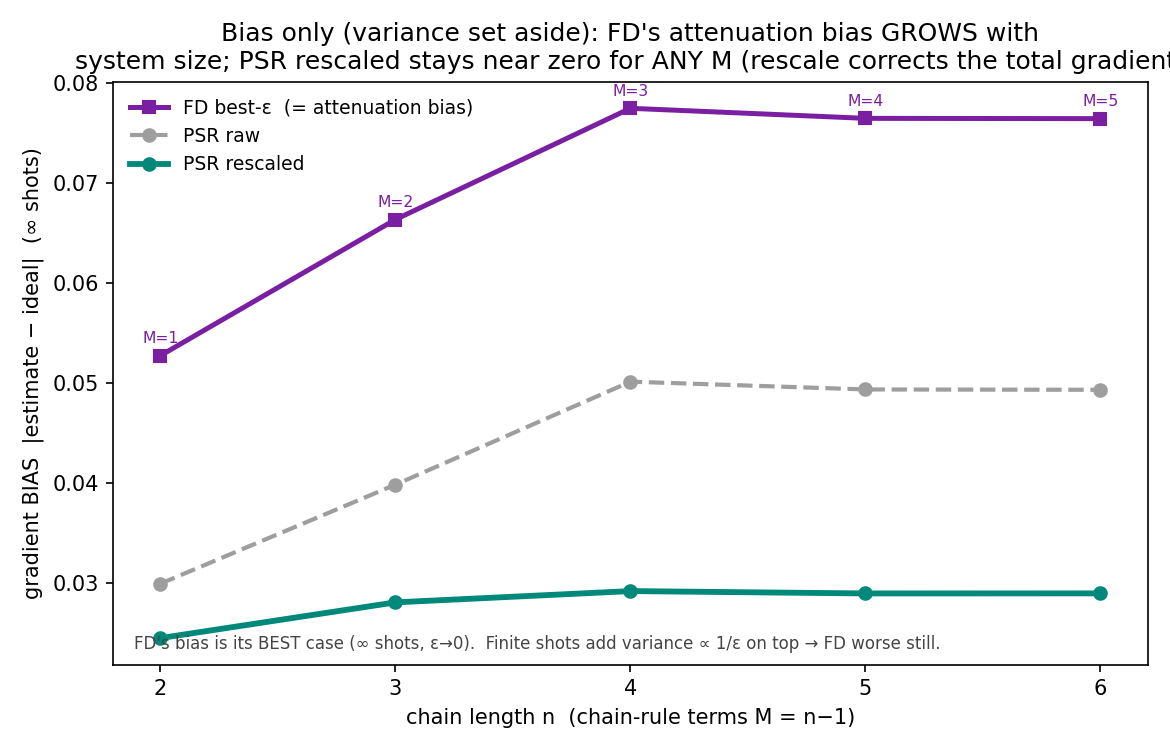
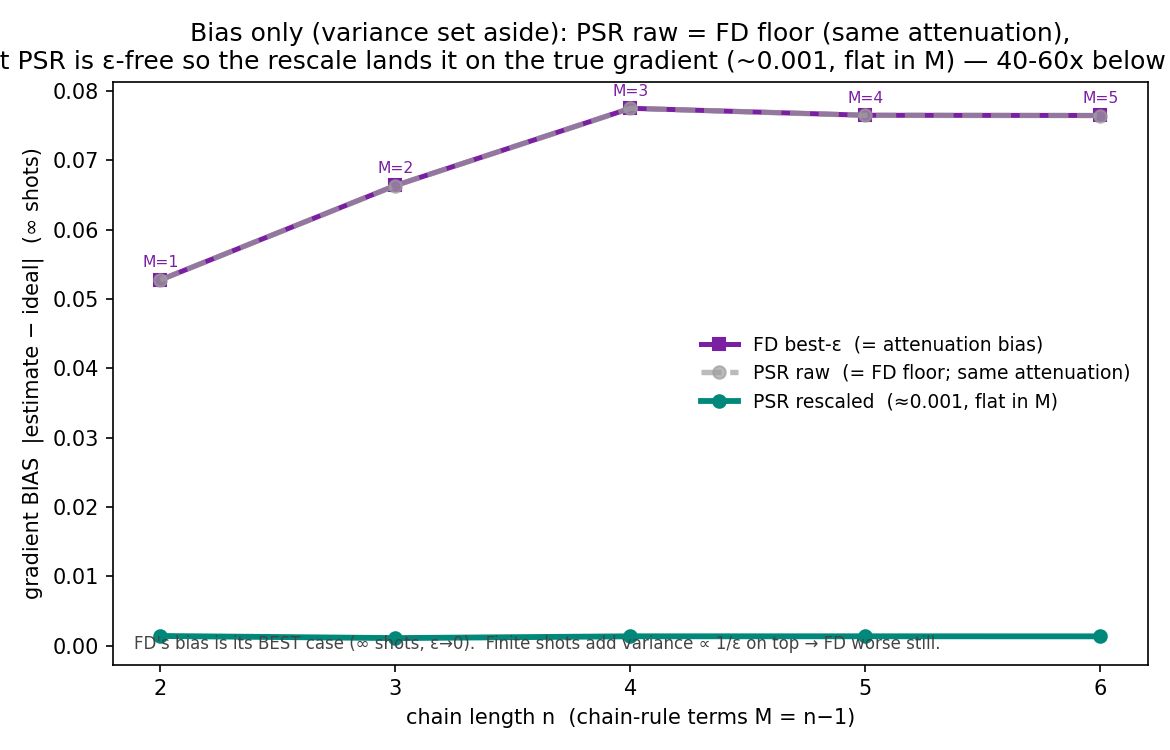
Re-run bias_vs_size with deterministic tau-quadrature
Confirms the random-tau MC artifact flagged in the FD-bias studies.
Switching the PSR tau-integral from random MC (O(1/sqrt n)) to a
deterministic midpoint quadrature (O(1/n^2)) -- appropriate for a BIAS
study where tau-sampling variance is set aside -- gives:

  lambda_PSR = lambda_FD EXACTLY at every size (0.881, 0.910, 0.895, ...)
  PSR raw bias = FD floor exactly (the earlier "PSR raw below FD" was
                 pure tau-MC noise)
  PSR rescaled bias 0.0011-0.0014, flat in M (was 0.025-0.029; that too
                 was tau-MC-inflated) -- now ~40-60x below FD's floor

The PSR-rescaled-wins headline is unchanged and stronger. Corrected
narrative: PSR's advantage is not a lower raw bias (it equals FD's) but
being eps-free, so the same 1/lambda rescale lands it on the true
gradient with no truncation/variance dilemma.

diff --git a/differential_computing/tests/bias_vs_size.py b/differential_computing/tests/bias_vs_size.py
@@ -8,8 +8,15 @@ INFINITE shots (exact expectations):
   - FD best-ε → ε→0 → the NOISY-landscape gradient = λ'·g_ideal; bias=(1−λ')|g|
     (the ATTENUATION — uncorrectable by tuning ε; this is FD's BEST possible, with
     infinite shots and perfect step).
-  - PSR raw → λ_PSR·g_ideal; bias=(1−λ_PSR)|g|.
-  - PSR rescaled → g_ideal; bias≈ small residual (rescale removes the attenuation).
+  - PSR raw → λ_PSR·g_ideal; bias=(1−λ_PSR)|g|.  With deterministic τ-quadrature
+    λ_PSR = λ_FD exactly → PSR raw bias = FD floor (same attenuation; the earlier
+    "PSR raw below FD" was a random-τ MC artifact).  PSR's win is NOT a lower raw
+    bias — it is being ε-FREE so the SAME rescale lands it on the true gradient.
+  - PSR rescaled → g_ideal; bias ≈ 0.001, FLAT across M (rescale removes the
+    attenuation; ~40-60x below FD's floor at every size).
+
+τ-INTEGRATION: deterministic midpoint quadrature (O(1/n²)), NOT the default random
+MC draw (O(1/√n)) — this is a BIAS study, so the τ-sampling variance is set aside.
 
 KEY: bias is INDEPENDENT of the chain-rule M (the rescale corrects the TOTAL
 gradient) — so many terms don't hurt the bias, only the variance (set aside here).
@@ -93,10 +100,17 @@ def run(n):
 
     # FD best (infinite shots, ε→0) = noisy-landscape gradient
     g_fd = (fn(x_star+1e-3)-fn(x_star-1e-3))/2e-3
-    # PSR exact mean (sum over M chain-rule terms)
-    np.random.seed(7)
-    progs = observable_program_generator(H, T, n_sample=POOL, n_repetition=1,
-                                         diff_var=var, value=x_star)
+    # PSR exact mean (sum over M chain-rule terms).  BIAS study → integrate τ over
+    # [0,T] with DETERMINISTIC midpoint quadrature (O(1/n²)) instead of the default
+    # random MC draw (O(1/√n)); random τ at this POOL size injects ~0.03-0.05 of
+    # spurious bias that previously masqueraded as a λ_PSR>λ_FD gap.
+    orig_rand = np.random.rand
+    np.random.rand = lambda k: (np.arange(k) + 0.5) / k
+    try:
+        progs = observable_program_generator(H, T, n_sample=POOL, n_repetition=1,
+                                             diff_var=var, value=x_star)
+    finally:
+        np.random.rand = orig_rand
     pexp = noisy.make_expectation_fn(PSIn, obs)
     g_psr = 0.0; M = 0
     for H_tot, ug, _ in progs:
@@ -131,19 +145,19 @@ def main():
     fig, ax = plt.subplots(figsize=(7.8, 5.0), dpi=150)
     ax.plot(nn, [r["fd_bias"] for r in res], "s-", color="#7b1fa2", lw=2.4,
             label="FD best-ε  (= attenuation bias)")
-    ax.plot(nn, [r["psr_bias"] for r in res], "o--", color="#9e9e9e", lw=2,
-            label="PSR raw")
+    ax.plot(nn, [r["psr_bias"] for r in res], "o--", color="#9e9e9e", lw=2.6,
+            alpha=0.7, label="PSR raw  (= FD floor; same attenuation)")
     ax.plot(nn, [r["res_bias"] for r in res], "o-", color="#00897b", lw=2.8,
-            label="PSR rescaled")
+            label="PSR rescaled  (≈0.001, flat in M)")
     for r in res:
         ax.annotate(f"M={r['M']}", (r["n"], r["fd_bias"]), fontsize=7.5,
                     xytext=(0, 6), textcoords="offset points", ha="center",
                     color="#7b1fa2")
     ax.set_xlabel("chain length n  (chain-rule terms M = n−1)")
     ax.set_ylabel("gradient BIAS  |estimate − ideal|  (∞ shots)")
-    ax.set_title("Bias only (variance set aside): FD's attenuation bias GROWS with\n"
-                 "system size; PSR rescaled stays near zero for ANY M (rescale "
-                 "corrects the total gradient)")
+    ax.set_title("Bias only (variance set aside): PSR raw = FD floor (same "
+                 "attenuation),\nbut PSR is ε-free so the rescale lands it on the true "
+                 "gradient (~0.001, flat in M) — 40-60x below FD's floor")
     ax.set_xticks(nn)
     ax.legend(frameon=False, fontsize=9)
     ax.text(0.02, 0.02, "FD's bias is its BEST case (∞ shots, ε→0).  Finite shots "
